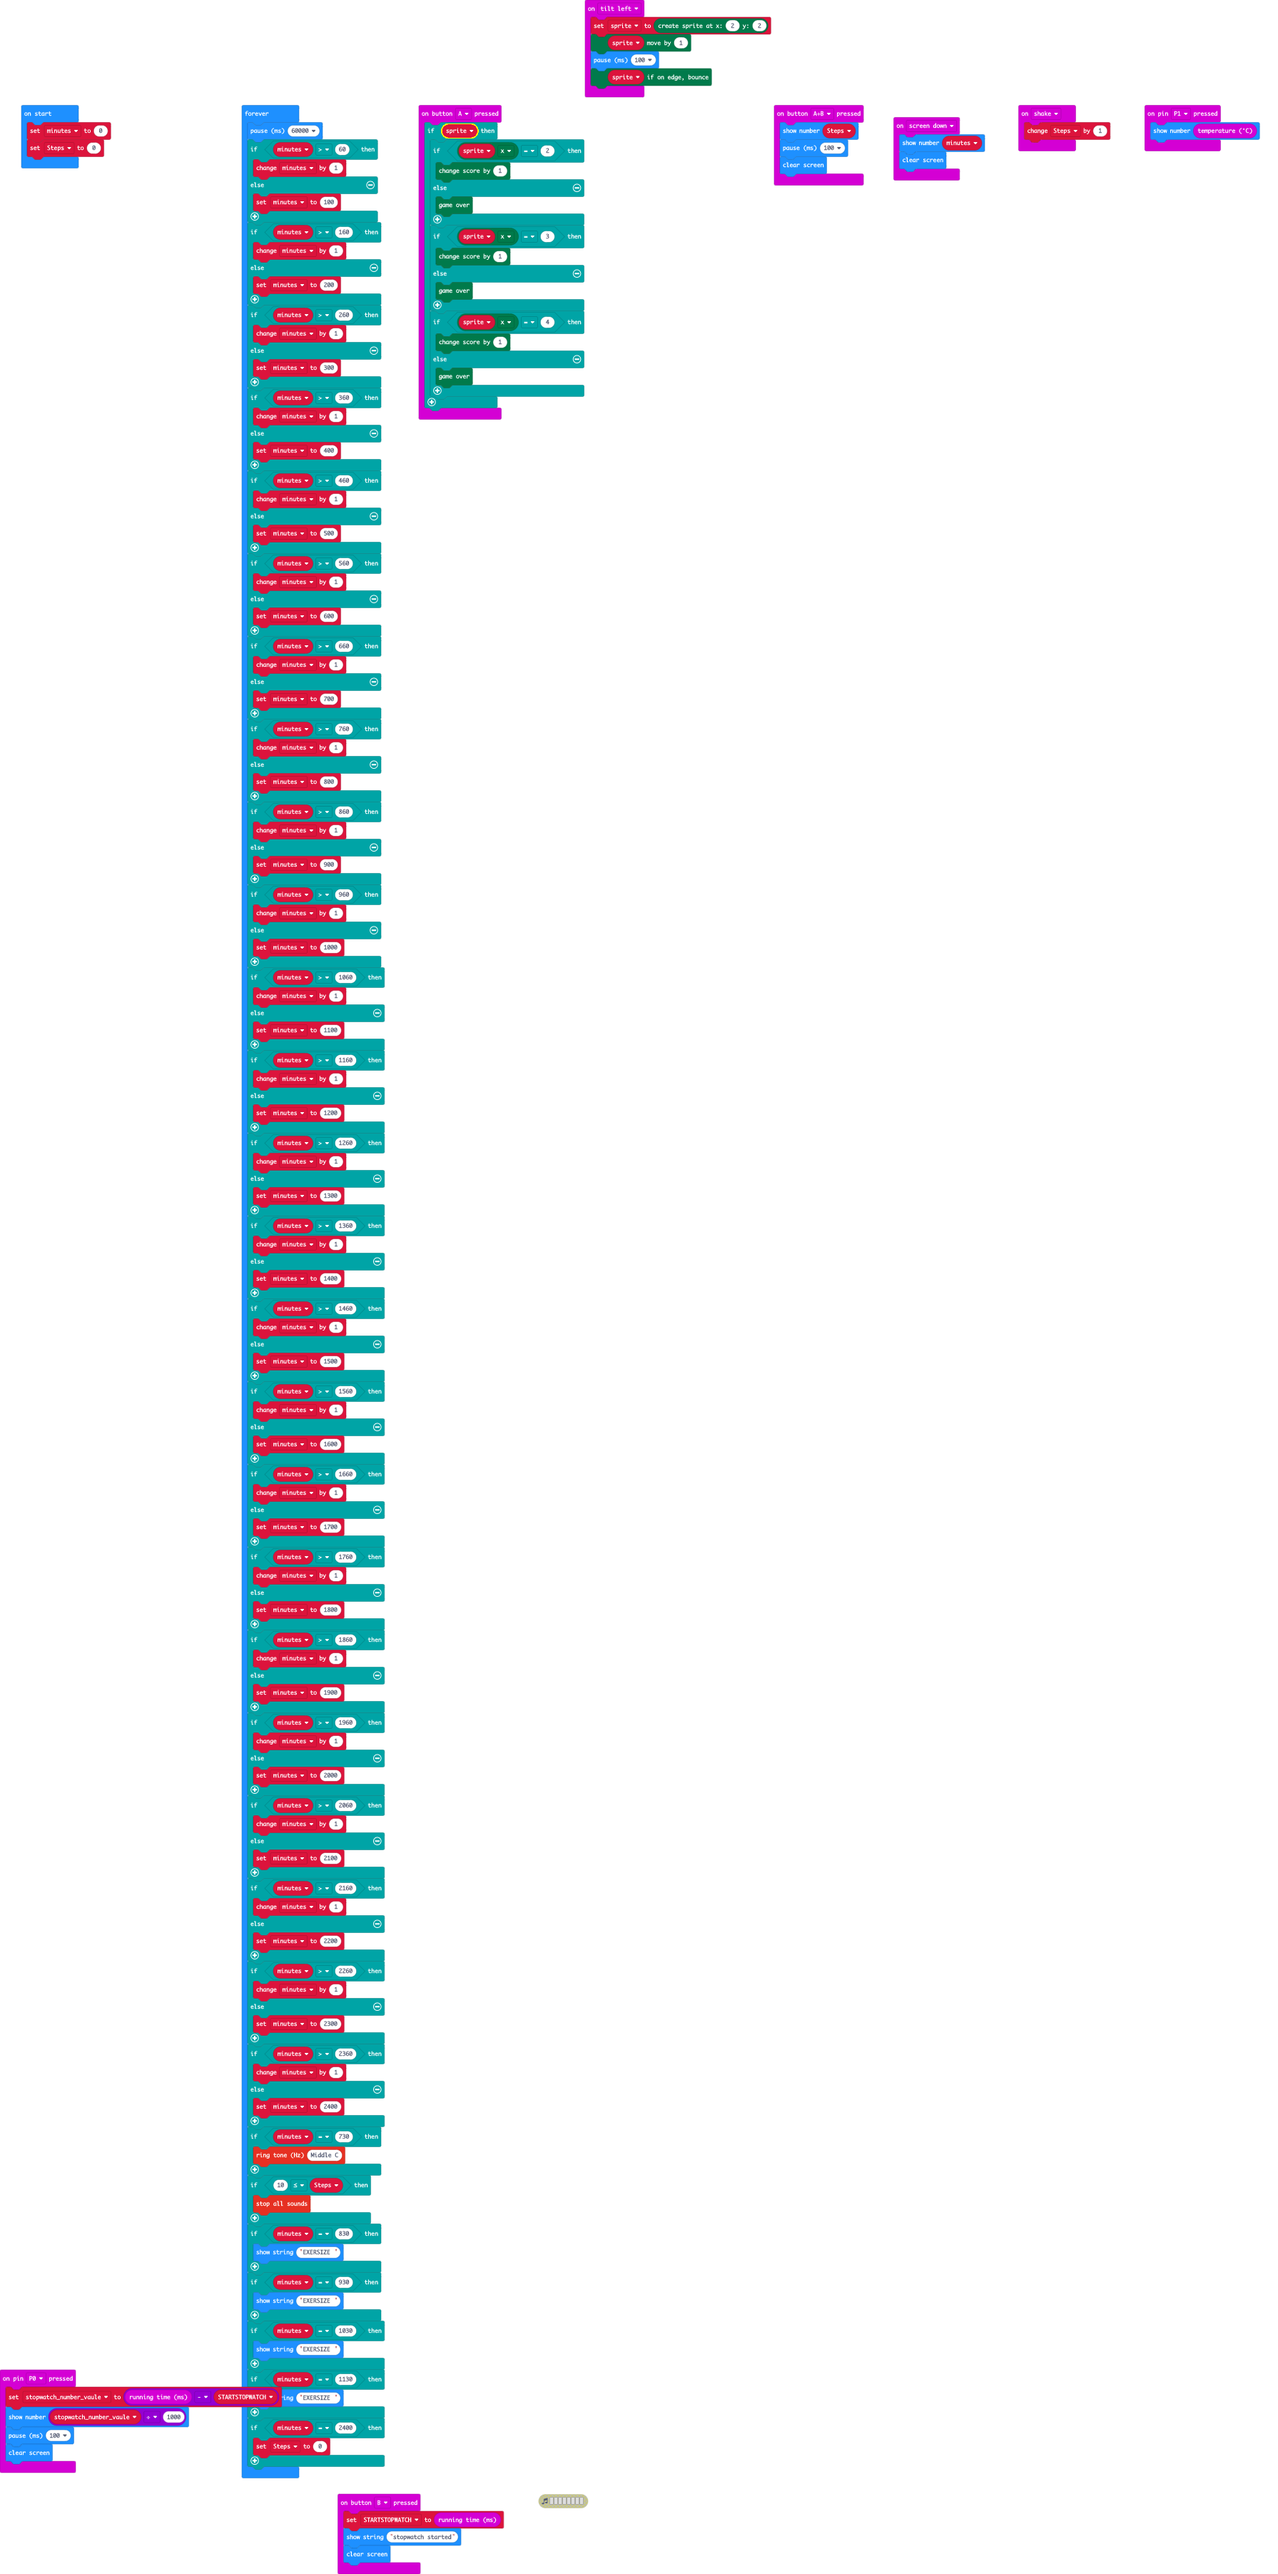
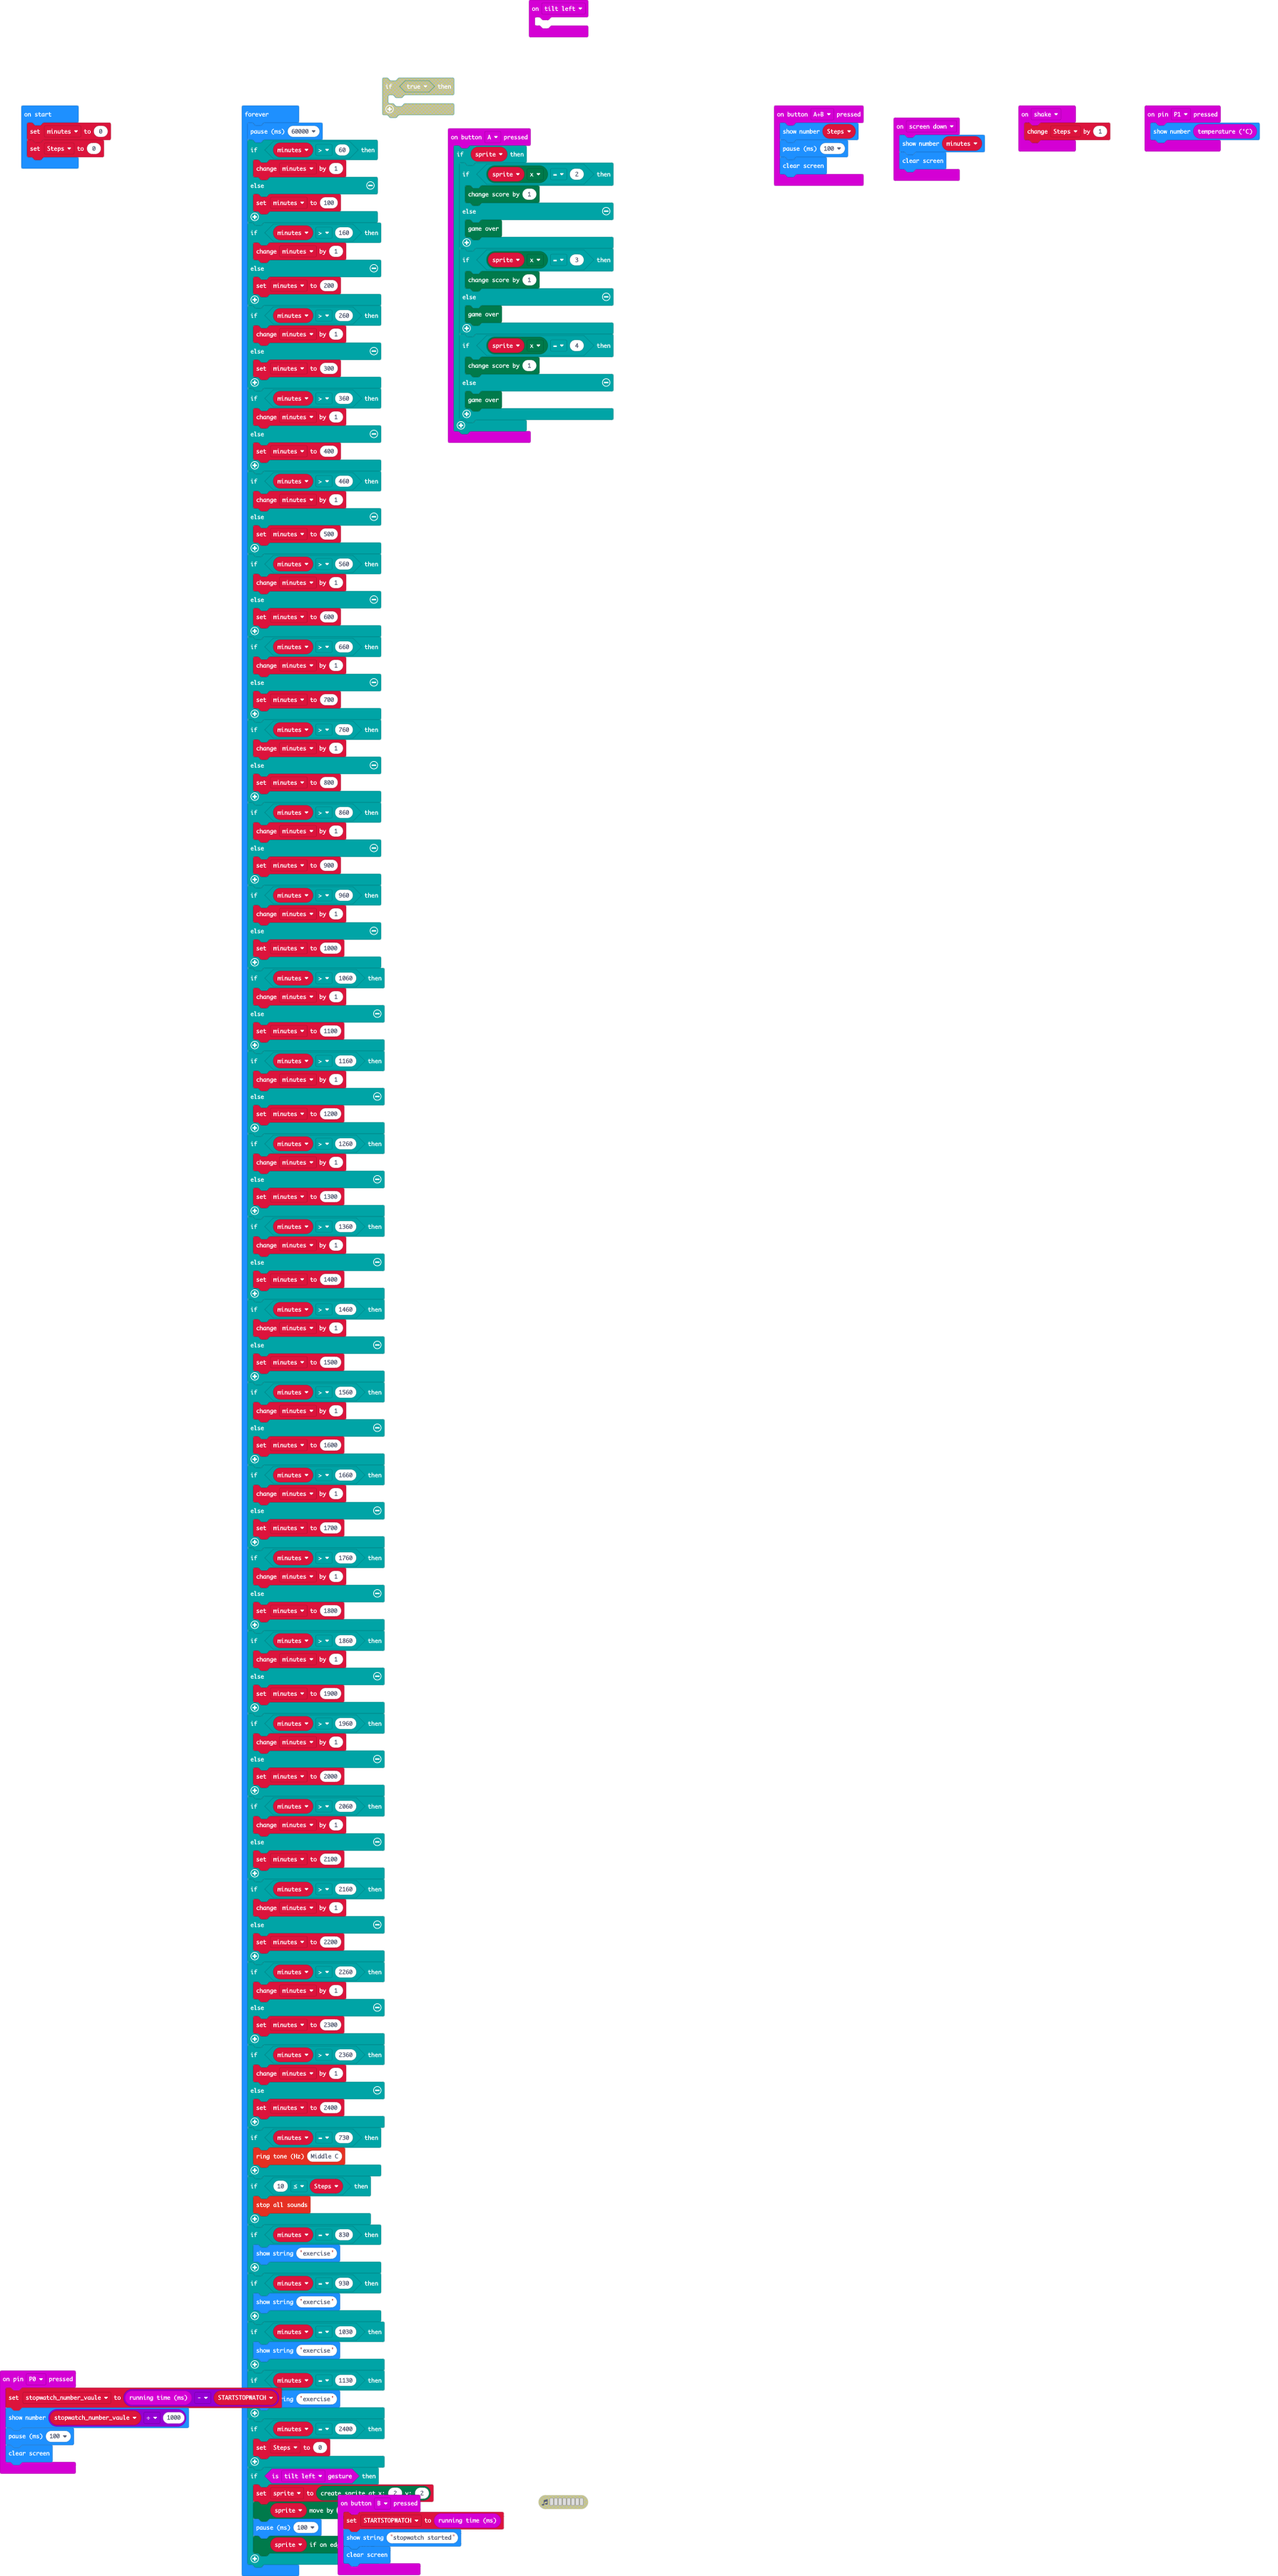
Update main.blocks, main.ts

diff --git a/main.ts b/main.ts
@@ -24,10 +24,7 @@ input.onButtonPressed(Button.A, function () {
     }
 })
 input.onGesture(Gesture.TiltLeft, function () {
-    sprite = game.createSprite(2, 2)
-    sprite.move(1)
-    basic.pause(100)
-    sprite.ifOnEdgeBounce()
+	
 })
 input.onGesture(Gesture.ScreenDown, function () {
     basic.showNumber(minutes)
@@ -185,18 +182,24 @@ basic.forever(function () {
         music.stopAllSounds()
     }
     if (minutes == 830) {
-        basic.showString("EXERSIZE ")
+        basic.showString("exercise")
     }
     if (minutes == 930) {
-        basic.showString("EXERSIZE ")
+        basic.showString("exercise")
     }
     if (minutes == 1030) {
-        basic.showString("EXERSIZE ")
+        basic.showString("exercise")
     }
     if (minutes == 1130) {
-        basic.showString("EXERSIZE ")
+        basic.showString("exercise")
     }
     if (minutes == 2400) {
         Steps = 0
+    }
+    if (input.isGesture(Gesture.TiltLeft)) {
+        sprite = game.createSprite(2, 2)
+        sprite.move(1)
+        basic.pause(100)
+        sprite.ifOnEdgeBounce()
     }
 })
